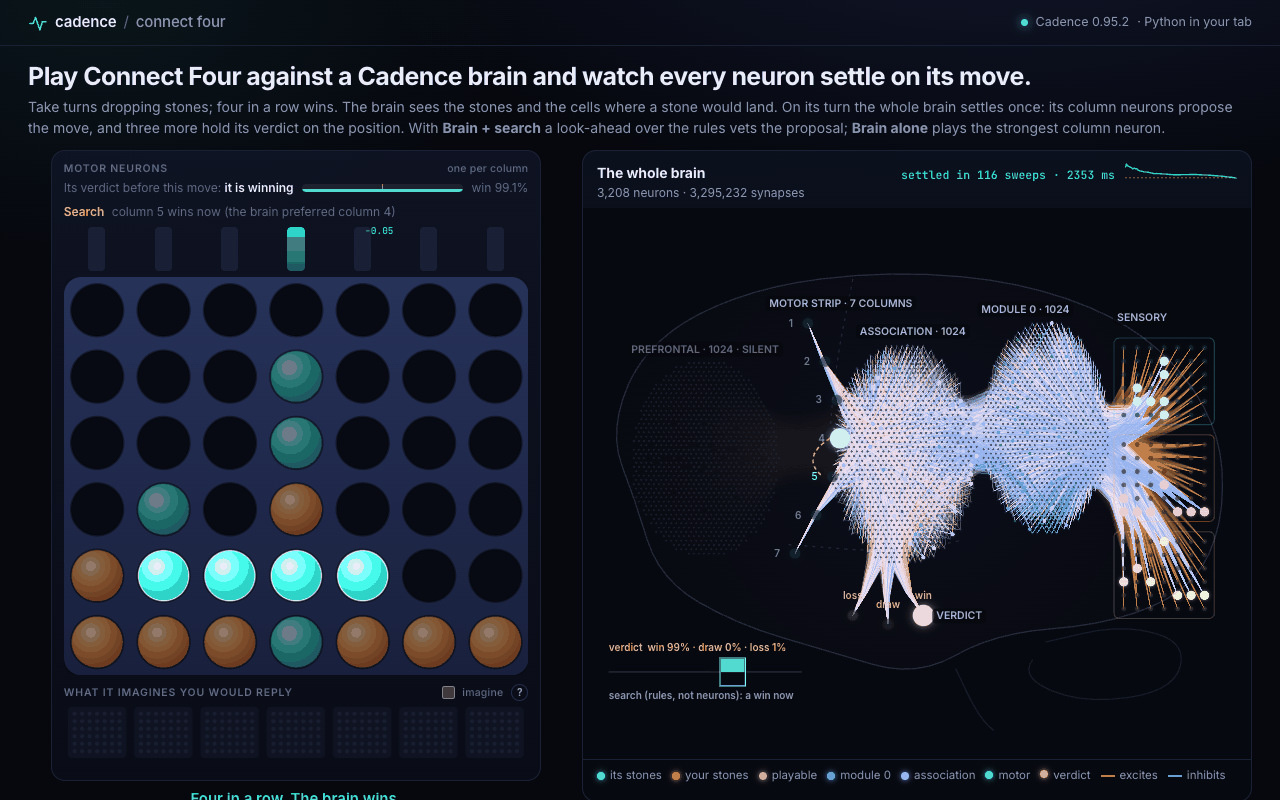
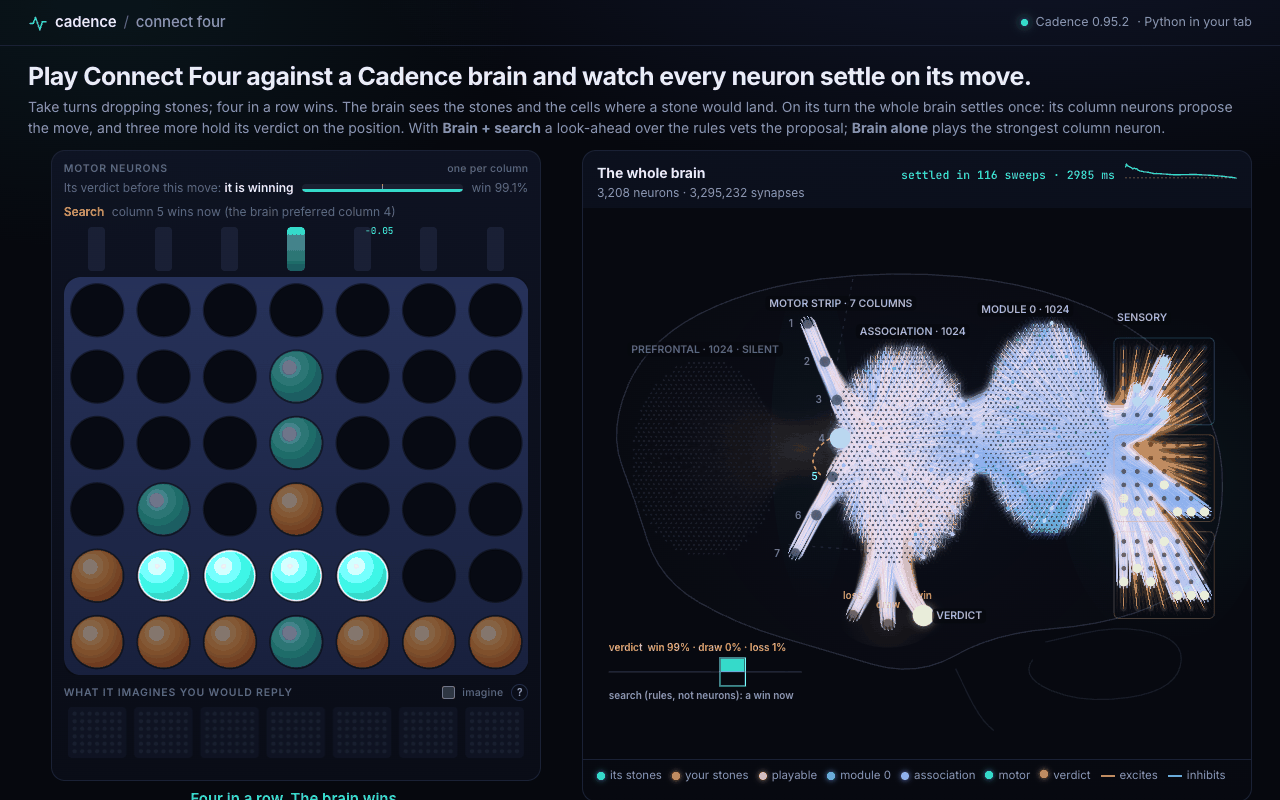
Connect Four: bloom in the brain view, page timings at a normal load
On a lightly loaded Mac the search takes 0.30-0.53 s in the page and a
whole move 1.6-3.0 s, at 51 frames a second with bloom. search.py gains
an opt-in depth-parity option for measurement; the default is unchanged.

diff --git a/connect-four/web/brain.js b/connect-four/web/brain.js
@@ -123,8 +123,17 @@ in vec2 uv;
 uniform sampler2D light;
 uniform float exposure;
 out vec4 color;
+uniform vec2 texel;
 void main() {
   vec3 x = texture(light, uv).rgb * exposure;
+  // bloom: the same light, gathered from a ring around the pixel, adds a soft glow to bright tracts
+  vec3 b = vec3(0.0);
+  for (int k = 0; k < 12; k++) {
+    float a = 6.2831853 * float(k) / 12.0;
+    vec2 d = vec2(cos(a), sin(a)) * texel;
+    b += texture(light, uv + d * 3.0).rgb + 0.6 * texture(light, uv + d * 7.0).rgb;
+  }
+  x += b * exposure * 0.035;
   float l = max(max(x.r, x.g), x.b);
   vec3 c = l > 0.0 ? x * ((1.0 - exp(-l)) / l) : vec3(0.0);
   color = vec4(c, 1.0);
@@ -580,7 +589,7 @@ export class BrainView {
     if (this.fboSize[0] === w && this.fboSize[1] === h) return true;
     gl.bindTexture(gl.TEXTURE_2D, this.lightTex);
     gl.texImage2D(gl.TEXTURE_2D, 0, gl.RGBA16F, w, h, 0, gl.RGBA, gl.HALF_FLOAT, null);
-    for (const p of [gl.TEXTURE_MIN_FILTER, gl.TEXTURE_MAG_FILTER]) gl.texParameteri(gl.TEXTURE_2D, p, gl.NEAREST);
+    for (const p of [gl.TEXTURE_MIN_FILTER, gl.TEXTURE_MAG_FILTER]) gl.texParameteri(gl.TEXTURE_2D, p, gl.LINEAR);
     gl.texParameteri(gl.TEXTURE_2D, gl.TEXTURE_WRAP_S, gl.CLAMP_TO_EDGE); gl.texParameteri(gl.TEXTURE_2D, gl.TEXTURE_WRAP_T, gl.CLAMP_TO_EDGE);
     gl.bindFramebuffer(gl.FRAMEBUFFER, this.fbo);
     gl.framebufferTexture2D(gl.FRAMEBUFFER, gl.COLOR_ATTACHMENT0, gl.TEXTURE_2D, this.lightTex, 0);
@@ -682,6 +691,7 @@ export class BrainView {
       gl.blendFunc(gl.ONE, gl.ONE);
       gl.activeTexture(gl.TEXTURE1); gl.bindTexture(gl.TEXTURE_2D, this.lightTex);
       gl.uniform1i(cp.u.light, 1); gl.uniform1f(cp.u.exposure, 1.35);
+      gl.uniform2f(cp.u.texel, 1 / this.canvas.width, 1 / this.canvas.height);
       gl.bindVertexArray(this.quadVAO);
       gl.drawArrays(gl.TRIANGLES, 0, 3);
       gl.activeTexture(gl.TEXTURE0);

diff --git a/connect-four/connect4/search.py b/connect-four/connect4/search.py
@@ -146,8 +146,10 @@ class Searcher:
         self.table[key] = (depth, best, flag, best_move)
         return best
 
-    def root(self, board: Board) -> dict:
-        """Every legal column's value from the side to move, at the deepest finished depth."""
+    def root(self, board: Board, parity: int | None = None) -> dict:
+        """Every legal column's value from the side to move, at the deepest finished depth (with
+        ``parity`` 0 or 1, the deepest finished depth of that parity; shallower depths of the
+        other parity still run and fill the table)."""
         position, mask, stones = bits(board)
         began = time.perf_counter()
         self.nodes = 0
@@ -165,8 +167,10 @@ class Searcher:
                     col = ((mask + BOTTOM) & BOARD) & (((1 << ROWS) - 1) << (c * H))
                     found[c] = -self._negamax(position ^ mask, mask | col, stones + 1, depth - 1,
                                               -2 * WIN, 2 * WIN, 1)
-                values, depth_done = found, depth
-                if all(abs(v) >= WIN - 50 for v in found.values()) or max(found.values()) >= WIN - 50:
+                decided = all(abs(v) >= WIN - 50 for v in found.values()) or max(found.values()) >= WIN - 50
+                if parity is None or depth % 2 == parity or decided or not values:
+                    values, depth_done = found, depth
+                if decided:
                     break  # every column decided, or a win proven
         except _Timeout:
             pass
@@ -182,12 +186,12 @@ def priors(motor: np.ndarray, legal: np.ndarray, temperature: float) -> np.ndarr
     return p / p.sum()
 
 
-def choose(board: Board, motor: np.ndarray, temperature: float, nodes: int = NODES) -> dict:
+def choose(board: Board, motor: np.ndarray, temperature: float, nodes: int = NODES, parity: int | None = None) -> dict:
     """The brain-plus-search move on ``board`` given the brain's settled motor activations."""
     legal = board.legal()
     p = priors(motor, legal, temperature)
     brain = int(np.argmax(np.where(legal, motor[:COLUMNS], -np.inf)))
-    s = Searcher(nodes).root(board)
+    s = Searcher(nodes).root(board, parity)
     values = s["values"]
     if not values:  # the budget did not cover depth 1: the brain's move
         return {"column": brain, "brain": brain, "reason": "brain", "priors": p.tolist(), **s}

diff --git a/connect-four/web/pack/py/connect4/search.py b/connect-four/web/pack/py/connect4/search.py
@@ -146,8 +146,10 @@ class Searcher:
         self.table[key] = (depth, best, flag, best_move)
         return best
 
-    def root(self, board: Board) -> dict:
-        """Every legal column's value from the side to move, at the deepest finished depth."""
+    def root(self, board: Board, parity: int | None = None) -> dict:
+        """Every legal column's value from the side to move, at the deepest finished depth (with
+        ``parity`` 0 or 1, the deepest finished depth of that parity; shallower depths of the
+        other parity still run and fill the table)."""
         position, mask, stones = bits(board)
         began = time.perf_counter()
         self.nodes = 0
@@ -165,8 +167,10 @@ class Searcher:
                     col = ((mask + BOTTOM) & BOARD) & (((1 << ROWS) - 1) << (c * H))
                     found[c] = -self._negamax(position ^ mask, mask | col, stones + 1, depth - 1,
                                               -2 * WIN, 2 * WIN, 1)
-                values, depth_done = found, depth
-                if all(abs(v) >= WIN - 50 for v in found.values()) or max(found.values()) >= WIN - 50:
+                decided = all(abs(v) >= WIN - 50 for v in found.values()) or max(found.values()) >= WIN - 50
+                if parity is None or depth % 2 == parity or decided or not values:
+                    values, depth_done = found, depth
+                if decided:
                     break  # every column decided, or a win proven
         except _Timeout:
             pass
@@ -182,12 +186,12 @@ def priors(motor: np.ndarray, legal: np.ndarray, temperature: float) -> np.ndarr
     return p / p.sum()
 
 
-def choose(board: Board, motor: np.ndarray, temperature: float, nodes: int = NODES) -> dict:
+def choose(board: Board, motor: np.ndarray, temperature: float, nodes: int = NODES, parity: int | None = None) -> dict:
     """The brain-plus-search move on ``board`` given the brain's settled motor activations."""
     legal = board.legal()
     p = priors(motor, legal, temperature)
     brain = int(np.argmax(np.where(legal, motor[:COLUMNS], -np.inf)))
-    s = Searcher(nodes).root(board)
+    s = Searcher(nodes).root(board, parity)
     values = s["values"]
     if not values:  # the budget did not cover depth 1: the brain's move
         return {"column": brain, "brain": brain, "reason": "brain", "priors": p.tolist(), **s}

diff --git a/connect-four/README.md b/connect-four/README.md
@@ -172,12 +172,12 @@ side or the other with the depth it reaches. Natively the search at 120,000 took
 0.6 s a move.
 
 `check_page.py` ran the page in headless Chromium on an Apple M4 (record:
-`evidence/page_check.json`) while the machine ran other jobs at a load average near 200, so the
-times are an upper bound. With brain + search: starting Pyodide, NumPy, Cadence and the brain took
-42 s; over a whole game a settle took 54–116 sweeps and 0.9–3.0 s in the worker, the search
-0.28–0.97 s (9 to 12 moves ahead), and from a click to the brain's stone on the board 3.7–7.6 s,
-animation included; the brain view drew 29 frames per second while the brain settled (64 in an
-earlier run of the same page at a lower load).
+`evidence/page_check.json`) while the machine ran other jobs (load average 13 to 18). With brain +
+search: starting Pyodide, NumPy, Cadence and the brain took 25 s; over a whole game a settle took
+54–116 sweeps and 1.2–3.0 s in the worker, the search 0.30–0.53 s (9 to 12 moves ahead), a whole
+move 1.6–3.0 s, and from a click to the brain's stone on the board 3.9–5.2 s, about 2 s of it the
+animation of the two stones and the settle; the brain view drew 51 frames per second while the
+brain settled.
 
 ## Train it further
 

diff --git a/connect-four/MODEL_CARD.md b/connect-four/MODEL_CARD.md
@@ -89,11 +89,12 @@ verdict the brain holds now, only when the brain does not already play that colu
 0.0033 (the bias a tenth of it). Lessons live in the tab; a reload or *Reset brain* restores the
 file. The visitor's record and lessons are not saved.
 
-Measured by `check_page.py` in headless Chromium on an Apple M4 at a load average near 200
-(`evidence/page_check.json`), with brain + search: startup 42 s; a settle 54–116 sweeps and
-0.9–3.0 s in the worker; the search, in JavaScript (`web/search.js`, identical to
-`connect4/search.py` on 200 recorded positions), 0.28–0.97 s; a click to the brain's stone on the
-board 3.7–7.6 s with the animations; the brain view at 29 frames per second.
+Measured by `check_page.py` in headless Chromium on an Apple M4 running other jobs (load average
+13 to 18; `evidence/page_check.json`), with brain + search: startup 25 s; a settle 54–116 sweeps
+and 1.2–3.0 s in the worker; the search, in JavaScript (`web/search.js`, identical to
+`connect4/search.py` on 200 recorded positions), 0.30–0.53 s; a whole move 1.6–3.0 s; a click to
+the brain's stone on the board 3.9–5.2 s with the animations; the brain view at 51 frames per
+second.
 
 ## Limits
 
